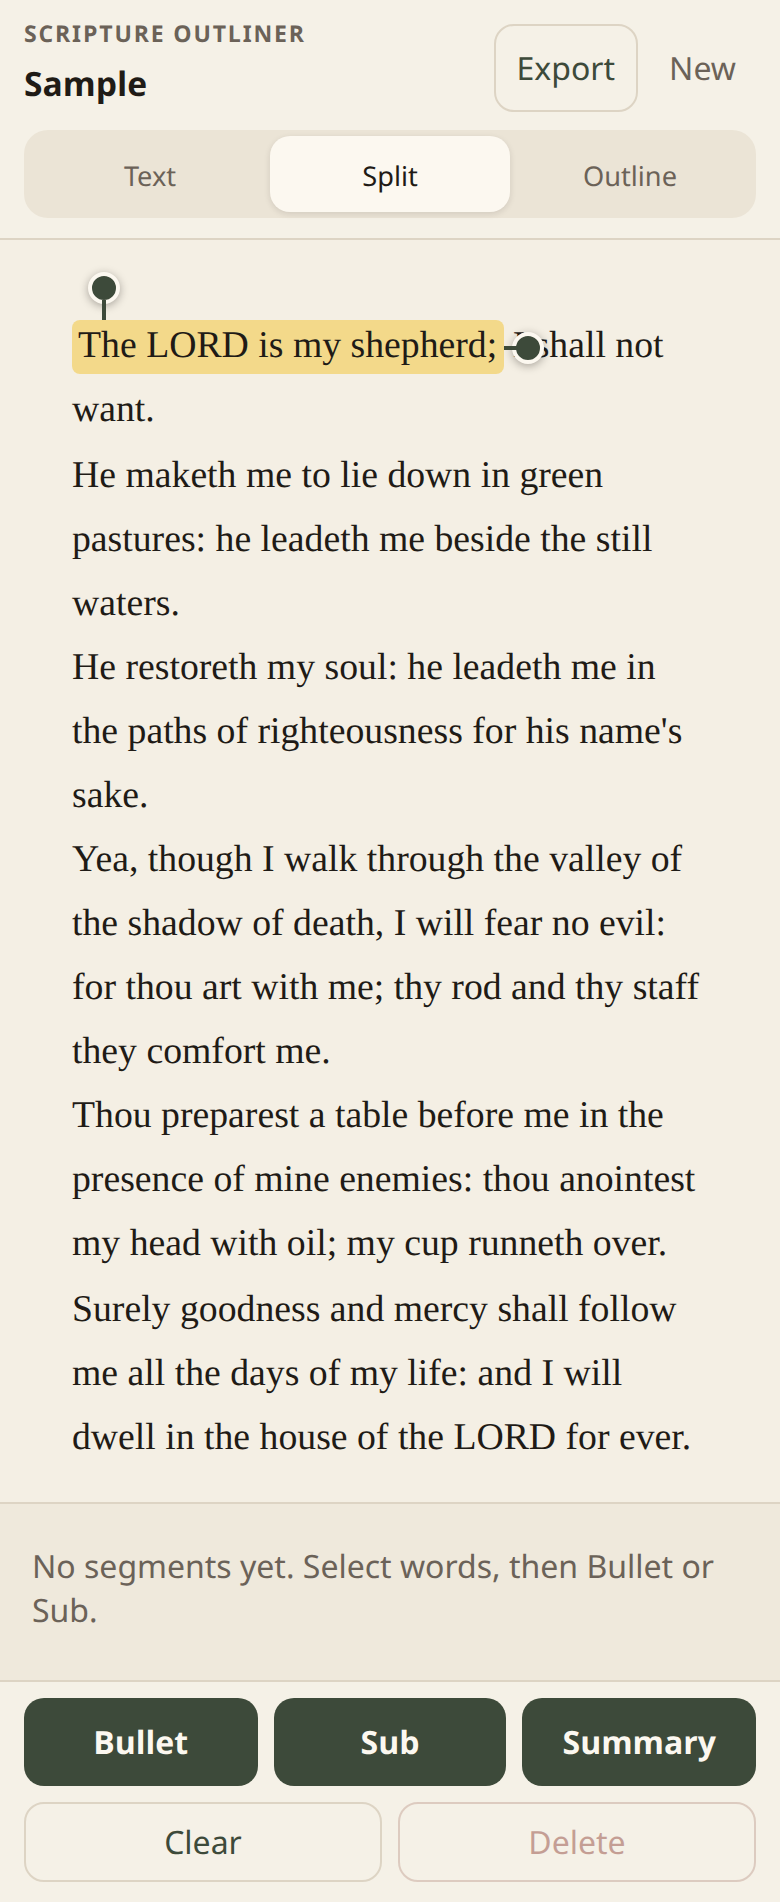
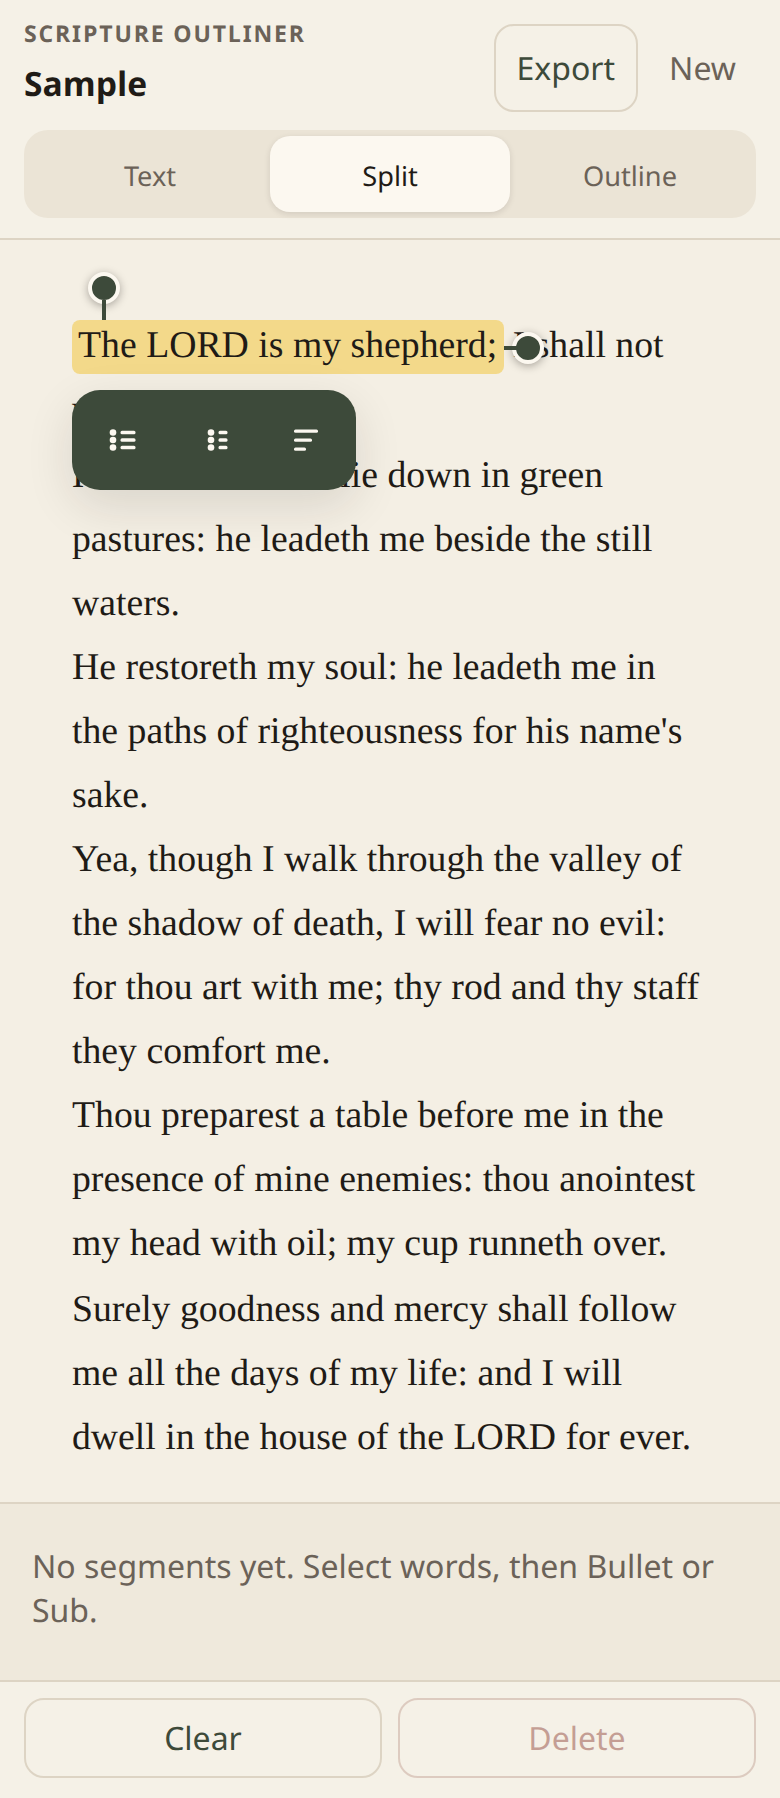
Attach Bullet / Sub / Summary as a hint on the current selection.
Includes the standing rule that future feature PRs must attach a screenshot or screen recording as proof.

diff --git a/src/app.ts b/src/app.ts
@@ -44,6 +44,7 @@ type Refs = {
   outlineEmpty: HTMLElement;
   actionBar: HTMLElement;
   hint: HTMLElement;
+  selectionToolbar: HTMLElement;
   summaryDialog: HTMLDialogElement;
   summaryField: HTMLTextAreaElement;
 };
@@ -105,11 +106,13 @@ export function mount(root: HTMLElement): void {
     renderOutline();
     renderActions();
     positionPins();
+    positionToolbar();
     if (opts?.reveal) {
       revealSelection();
     }
     requestAnimationFrame(() => {
       positionPins();
+      positionToolbar();
       if (opts?.reveal) {
         revealSelection();
       }
@@ -305,11 +308,13 @@ export function mount(root: HTMLElement): void {
   function renderActions(): void {
     if (!doc || !doc.selection) {
       refs.actionBar.hidden = true;
+      refs.selectionToolbar.hidden = true;
       refs.hint.hidden = !doc;
       return;
     }
     refs.hint.hidden = true;
     refs.actionBar.hidden = false;
+    refs.selectionToolbar.hidden = false;
     const matched = exactSegment(doc.segments, doc.selection);
     const del = refs.actionBar.querySelector("[data-delete]");
     if (del instanceof HTMLButtonElement) {
@@ -343,6 +348,51 @@ export function mount(root: HTMLElement): void {
     refs.pinStart.style.top = `${startBox.top - origin.top}px`;
     refs.pinEnd.style.left = `${endBox.right - origin.left}px`;
     refs.pinEnd.style.top = `${(endBox.top + endBox.bottom) / 2 - origin.top}px`;
+  }
+
+  function positionToolbar(): void {
+    if (!doc || !doc.selection) {
+      refs.selectionToolbar.hidden = true;
+      return;
+    }
+    const startEl = wordElement(doc.selection.start);
+    const endEl = wordElement(doc.selection.end);
+    const wrap = refs.passage.parentElement;
+    if (!startEl || !endEl || !wrap) {
+      refs.selectionToolbar.hidden = true;
+      return;
+    }
+    refs.selectionToolbar.hidden = false;
+    const origin = wrap.getBoundingClientRect();
+    const startBox = startEl.getBoundingClientRect();
+    const endBox = endEl.getBoundingClientRect();
+    const rangeTop = Math.min(startBox.top, endBox.top);
+    const rangeBottom = Math.max(startBox.bottom, endBox.bottom);
+    const rangeLeft = Math.min(startBox.left, endBox.left);
+    const toolbar = refs.selectionToolbar;
+    const toolbarW = Math.max(toolbar.offsetWidth, 148);
+    const toolbarH = Math.max(toolbar.offsetHeight, 50);
+    const pad = 6;
+    let top = rangeBottom - origin.top + 8;
+    let placement = "below";
+    if (top + toolbarH > wrap.clientHeight - pad) {
+      top = rangeTop - origin.top - toolbarH - 8;
+      placement = "above";
+    }
+    if (top < pad) {
+      top = pad;
+      placement = "below";
+    }
+    let left = rangeLeft - origin.left;
+    if (left + toolbarW > wrap.clientWidth - pad) {
+      left = wrap.clientWidth - toolbarW - pad;
+    }
+    if (left < pad) {
+      left = pad;
+    }
+    toolbar.style.left = `${left}px`;
+    toolbar.style.top = `${top}px`;
+    toolbar.dataset.placement = placement;
   }
 
   function wordElement(id: WordId): HTMLSpanElement | null {
@@ -454,6 +504,7 @@ export function mount(root: HTMLElement): void {
     renderPassage();
     renderActions();
     positionPins();
+    positionToolbar();
   }
 
   function importTextAs(title: string, raw: string): void {
@@ -669,13 +720,13 @@ export function mount(root: HTMLElement): void {
     });
   }
 
-  refs.actionBar.querySelector("[data-bullet]")?.addEventListener("click", () =>
+  refs.selectionToolbar.querySelector("[data-bullet]")?.addEventListener("click", () =>
     addBullet(0),
   );
-  refs.actionBar.querySelector("[data-sub]")?.addEventListener("click", () =>
+  refs.selectionToolbar.querySelector("[data-sub]")?.addEventListener("click", () =>
     addBullet(1),
   );
-  refs.actionBar.querySelector("[data-summary]")?.addEventListener(
+  refs.selectionToolbar.querySelector("[data-summary]")?.addEventListener(
     "click",
     openSummary,
   );
@@ -700,10 +751,16 @@ export function mount(root: HTMLElement): void {
     },
   );
 
-  refs.paneText.addEventListener("scroll", () => positionPins(), {
+  refs.paneText.addEventListener("scroll", () => {
+    positionPins();
+    positionToolbar();
+  }, {
     passive: true,
   });
-  window.addEventListener("resize", () => positionPins());
+  window.addEventListener("resize", () => {
+    positionPins();
+    positionToolbar();
+  });
 
   document.addEventListener(
     "touchmove",
@@ -735,6 +792,7 @@ function bind(root: HTMLElement): Refs {
     outlineEmpty: requireEl(root, "[data-outline-empty]", HTMLElement),
     actionBar: requireEl(root, "[data-action-bar]", HTMLElement),
     hint: requireEl(root, "[data-hint]", HTMLElement),
+    selectionToolbar: requireEl(root, "[data-selection-toolbar]", HTMLElement),
     summaryDialog: requireEl(root, "[data-summary-dialog]", HTMLDialogElement),
     summaryField: requireEl(root, "[data-summary-field]", HTMLTextAreaElement),
   };
@@ -775,6 +833,40 @@ function shellHtml(): string {
                 <div class="passage" data-passage data-testid="passage"></div>
                 <button type="button" class="pin pin-start" data-pin-start data-testid="pin-start" hidden aria-label="Selection start"></button>
                 <button type="button" class="pin pin-end" data-pin-end data-testid="pin-end" hidden aria-label="Selection end"></button>
+                <div
+                  class="selection-toolbar"
+                  data-selection-toolbar
+                  data-testid="selection-toolbar"
+                  hidden
+                >
+                  <button type="button" data-bullet data-testid="action-bullet" aria-label="Bullet" title="Bullet">
+                    <svg width="18" height="18" viewBox="0 0 24 24" aria-hidden="true">
+                      <circle cx="6" cy="7" r="2.2" fill="currentColor" />
+                      <rect x="11" y="5.9" width="10" height="2.2" rx="1" fill="currentColor" />
+                      <circle cx="6" cy="12" r="2.2" fill="currentColor" />
+                      <rect x="11" y="10.9" width="10" height="2.2" rx="1" fill="currentColor" />
+                      <circle cx="6" cy="17" r="2.2" fill="currentColor" />
+                      <rect x="11" y="15.9" width="10" height="2.2" rx="1" fill="currentColor" />
+                    </svg>
+                  </button>
+                  <button type="button" data-sub data-testid="action-sub" aria-label="Sub" title="Sub">
+                    <svg width="18" height="18" viewBox="0 0 24 24" aria-hidden="true">
+                      <circle cx="10" cy="7" r="2.2" fill="currentColor" />
+                      <rect x="15" y="5.9" width="6" height="2.2" rx="1" fill="currentColor" />
+                      <circle cx="10" cy="12" r="2.2" fill="currentColor" />
+                      <rect x="15" y="10.9" width="6" height="2.2" rx="1" fill="currentColor" />
+                      <circle cx="10" cy="17" r="2.2" fill="currentColor" />
+                      <rect x="15" y="15.9" width="6" height="2.2" rx="1" fill="currentColor" />
+                    </svg>
+                  </button>
+                  <button type="button" data-summary data-testid="action-summary" aria-label="Summary" title="Summary">
+                    <svg width="18" height="18" viewBox="0 0 24 24" aria-hidden="true">
+                      <rect x="4" y="5" width="16" height="2.2" rx="1" fill="currentColor" />
+                      <rect x="4" y="11" width="12" height="2.2" rx="1" fill="currentColor" />
+                      <rect x="4" y="17" width="8" height="2.2" rx="1" fill="currentColor" />
+                    </svg>
+                  </button>
+                </div>
               </div>
               <p class="hint" data-hint data-testid="selection-hint">Tap a word to select. Tap a second word to extend. Drag the pins to snap.</p>
             </div>
@@ -784,9 +876,6 @@ function shellHtml(): string {
             </div>
           </div>
           <div class="action-bar" data-action-bar data-testid="action-bar" hidden>
-            <button type="button" class="primary" data-bullet data-testid="action-bullet">Bullet</button>
-            <button type="button" class="primary" data-sub data-testid="action-sub">Sub</button>
-            <button type="button" class="primary" data-testid="action-summary" data-summary>Summary</button>
             <div class="action-secondary">
               <button type="button" class="secondary" data-clear data-testid="action-clear">Clear</button>
               <button type="button" class="danger" data-delete data-testid="action-delete">Delete</button>

diff --git a/src/styles.css b/src/styles.css
@@ -394,9 +394,7 @@ button.danger {
 
 .action-bar {
   flex-shrink: 0;
-  display: grid;
-  grid-template-columns: 1fr 1fr 1fr;
-  gap: 8px;
+  display: block;
   padding: 8px 12px calc(10px + var(--safe-bottom));
   background: color-mix(in srgb, var(--paper) 88%, white);
   border-top: 1px solid var(--line);
@@ -406,12 +404,7 @@ button.danger {
   display: none;
 }
 
-.action-bar .primary {
-  font-weight: 650;
-}
-
 .action-secondary {
-  grid-column: 1 / -1;
   display: flex;
   gap: 8px;
 }
@@ -419,6 +412,54 @@ button.danger {
 .action-secondary button {
   flex: 1;
   min-height: 40px;
+}
+
+.selection-toolbar {
+  position: absolute;
+  z-index: 7;
+  display: flex;
+  gap: 2px;
+  padding: 3px;
+  background: var(--forest);
+  color: var(--cream);
+  border-radius: 14px;
+  box-shadow: var(--shadow);
+}
+
+.selection-toolbar[hidden] {
+  display: none;
+}
+
+.selection-toolbar::before {
+  content: "";
+  position: absolute;
+  left: 16px;
+  border: 6px solid transparent;
+}
+
+.selection-toolbar[data-placement="below"]::before {
+  top: -6px;
+  border-bottom-color: var(--forest);
+}
+
+.selection-toolbar[data-placement="above"]::before {
+  bottom: -6px;
+  border-top-color: var(--forest);
+}
+
+.selection-toolbar button {
+  min-width: var(--tap);
+  min-height: var(--tap);
+  padding: 0;
+  background: transparent;
+  color: var(--cream);
+  border-radius: 11px;
+  display: grid;
+  place-items: center;
+}
+
+.selection-toolbar button:active {
+  background: var(--forest-2);
 }
 
 .outline-list {

diff --git a/.cursor/skills/verify-scripture-outliner/features/word-selection.md b/.cursor/skills/verify-scripture-outliner/features/word-selection.md
@@ -24,7 +24,7 @@ Preconditions:
 - Sample is loaded (run `import-sample` first or use `drive.mjs word-selection`, which loads the sample).
 - Editor `data-view` is `split` or `text` so `passage` is visible.
 
-- **Single word.** Tap the first word. Run `page.getByTestId("word").first().click()` or `page.locator('[data-word-id="0"]').click()`. Exactly one `.selected` word. `pin-start` and `pin-end` are visible (`hidden` attribute absent). `action-bar` is visible. `selection-hint` is hidden.
+- **Single word.** Tap the first word. Run `page.getByTestId("word").first().click()` or `page.locator('[data-word-id="0"]').click()`. Exactly one `.selected` word. `pin-start` and `pin-end` are visible (`hidden` attribute absent). `selection-toolbar` is visible with Bullet / Sub / Summary. Sticky `action-bar` shows Clear / Delete only. `selection-hint` is hidden.
 - **Extend.** Tap a later word. Run `page.getByTestId("word").nth(4).click()`. At least two `.selected` words, still inclusive of the first tap. Pins remain visible. Spaces between those words have class `gap selected` so the highlight reads as one bar, not chips.
 - **Clear.** Choose **Clear**. Run `page.getByTestId("action-clear").click()`. Zero `.selected` words. Pins hidden. `action-bar` hidden. `selection-hint` visible again.
 - **Proof.** `drive.mjs word-selection` writes `evidence/word-selection/range.png` and `range.aria.txt` after the extended range exists.

diff --git a/README.md b/README.md
@@ -14,6 +14,8 @@ Agents prove UI behavior with `.cursor/skills/verify-scripture-outliner/` (Playw
 
 Seeded proof from the first skill run (import + sample, after cleanup) is in `.cursor/skills/verify-scripture-outliner/evidence/import-sample/`. Cleanup removes the preview process only; it does not delete evidence.
 
+Every future feature PR must include a screenshot or screen recording as proof of the change.
+
 ## Run
 
 ```bash
@@ -69,7 +71,7 @@ Use device mode at **390×844** (or an actual phone). After `npm run dev`:
 5. **Bullet**, then select a later phrase and **Sub**. Highlights use two shades; the outline lists an indented sub-bullet.
 6. **Summary**, type a sentence, Save. The outline shows your text, not a generated paraphrase.
 7. Switch to **Split**: text on top, outline under it, both scrollable. Tap the outline row — the text reselects that range.
-8. **Text** hides the outline; **Outline** hides the passage. Sticky **Bullet / Sub / Summary** stay tappable (44px targets) above the home indicator.
+8. **Text** hides the outline; **Outline** hides the text. **Bullet / Sub / Summary** sit on the selection as a compact toolbar (44px targets). Clear / Delete stay on the sticky bar.
 9. Reload the tab. Title, segments, summaries, and view mode return.
 10. **Export** produces a `.md` file with indented bullets.
 

diff --git a/.cursor/skills/verify-scripture-outliner/SKILL.md b/.cursor/skills/verify-scripture-outliner/SKILL.md
@@ -66,7 +66,8 @@ Stable handles (prefer `data-testid`):
 | `passage` | Word stream |
 | `word` | One token; also `data-word-id` |
 | `pin-start` / `pin-end` | Selection pins (`aria-label` Selection start/end) |
-| `action-bar` | Sticky Bullet / Sub / Summary / Clear / Delete |
+| `selection-toolbar` | Hint attached to the current selection (Bullet / Sub / Summary) |
+| `action-bar` | Sticky Clear / Delete |
 | `action-bullet` `action-sub` `action-summary` `action-clear` `action-delete` | Action buttons |
 | `outline-list` / `outline-row` / `outline-empty` | Outline pane |
 | `view-toggle` `view-text` `view-split` `view-outline` | View mode |
@@ -95,6 +96,8 @@ Proof standards:
 - No mocks. This app has no backend.
 
 Seeded proof from the first skill run: `evidence/import-sample/`.
+
+**Standing rule:** every future feature PR must include a screenshot or screen recording as proof of the change (390×844 for UI). Attach it in the PR (evidence path and/or walkthrough artifact). Do not merge interaction changes on description alone.
 
 ## Cleanup
 

diff --git a/.cursor/skills/verify-scripture-outliner/features/bullet-sub-summary.md b/.cursor/skills/verify-scripture-outliner/features/bullet-sub-summary.md
@@ -11,8 +11,8 @@ With a selection, the user marks a depth-0 section (**Bullet**), a depth-1 subse
 
 ## How to get to it (user POV)
 
-- Select a word range in the passage.
-- Choose **Bullet**, **Sub**, or **Summary** on the sticky action bar.
+- Select a word range in the text.
+- Choose **Bullet**, **Sub**, or **Summary** on the toolbar attached to the highlight (primary). Clear / Delete stay on the sticky bar.
 - In Split or Outline, tap an outline row to reselect its range.
 - Choose **Delete** when the selection matches a segment exactly.
 
